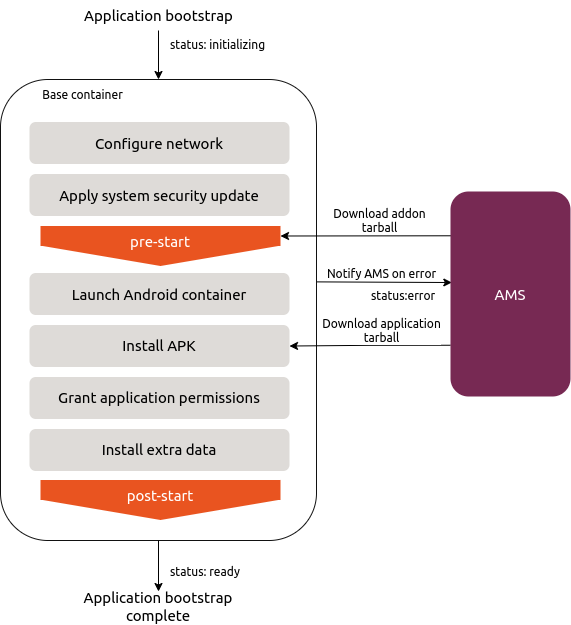
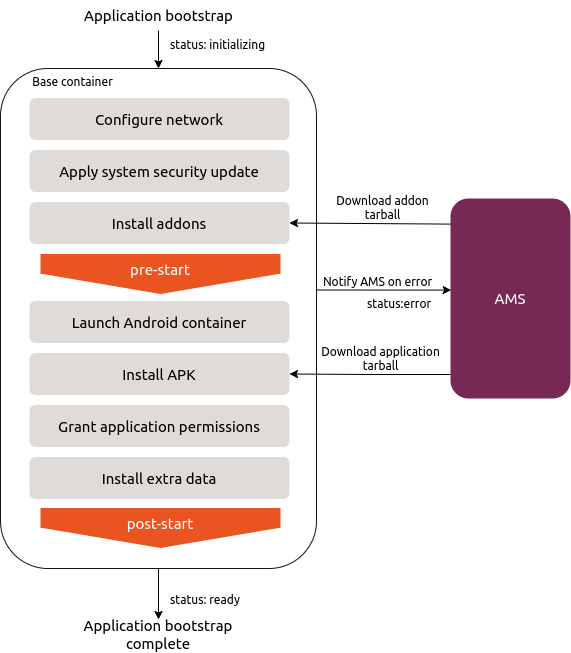
updates from review

diff --git a/explanation/containers.md b/explanation/containers.md
@@ -15,9 +15,9 @@ When we refer to containers in this documentation without specifying the contain
 
 Containers are based on either [applications](https://discourse.ubuntu.com/t/managing-applications/17760) or [images](https://discourse.ubuntu.com/t/provided-images/24185). That means that if you launch an application or an image, AMS automatically creates a container for it.
 
-Application containers, thus containers created when launching an application, run the full Android system. If the application is based on an Android app (an APK package), this app is launched after the system boots and monitored by the [watchdog](https://discourse.ubuntu.com/t/application-manifest/24197#watchdog). With the default configuration, you will only see the app and not the underlying Android system.
+Application containers, thus containers created when launching an application, run the full Android system. If the application is based on an Android app (an APK package), this app is launched after the system boots and monitored by the [watchdog](https://discourse.ubuntu.com/t/application-manifest/24197#watchdog). With the default configuration, you will see only the app and not the Android launcher.
 
-Containers that are created when launching an image are called raw containers. They run only the base Android system.
+Containers that are created when launching an image are called raw containers. They run the full Android system, without any additional apps installed.
 
 ## Data stored in containers
 

diff --git a/explanation/applications.md b/explanation/applications.md
@@ -32,12 +32,13 @@ In general, the bootstrap process goes through the following steps in order:
 
 1. Configure the network interface and gateway.
 2. Apply any pending Ubuntu system security updates.
-3. Install [addons](tbd) listed in the application manifest file and run their `pre-start` hook.
-4. Launch the Android container.
-5. Install the APK provided by the application.
-6. Grant the application permissions as requested in the application manifest.
-7. Install the extra data as listed in the application manifest.
-8. Execute the `post-start` hook provided by each addon listed in the application manifest.
+3. Install [addons](tbd) listed in the application manifest file.
+4. Run the `pre-start` hook provided by each addon listed in the application manifest.
+5. Launch the Android container.
+6. Install the APK provided by the application.
+7. Grant the application permissions as requested in the application manifest.
+8. Install the extra data as listed in the application manifest.
+9. Execute the `post-start` hook provided by each addon listed in the application manifest.
 
 ![Application bootstrap process](tbd)
 
